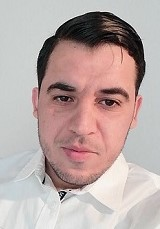
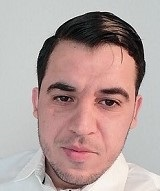
change

diff --git a/index.html b/index.html
@@ -17,11 +17,11 @@
                      
                         <div class="contact">
                            <h1>Contact</h1>
-                                <p>Adresse:<br>25 rue de la folie méricourt,Paris</p>
-                                <p>Email :<br><a href="mailto:Ahmed.mohamedcherifpro@gmail.com">Ahmed.mohamedcherifpro@gmail.com</a></p>
-                                <p>Téléphone:<br>07 68 07 12 89</p>
-                                <p>Site web :<br><a href="https://www.linkedin.com/in/ahmed-mohamed-cherif-a6119a1a2">linkedin</a></p>
-                                            <p><a href="https://github.com/Ahmed7511?tab=repositories">Github </a></p>
+                                <p><i class="fas fa-home fa-2x"></i> 25 rue de la folie méricourt,Paris</p>
+                                <p><i class="far fa-envelope fa-2x"></i> <a href="mailto:Ahmed.mohamedcherifpro@gmail.com">Ahmed.mohamedcherifpro@gmail.com</a></p>
+                                <p><i class="fas fa-phone fa-2x"></i> 07 68 07 12 89</p>
+                                <p><i class="fab fa-linkedin fa-2x" style="color: blue;"></i> <a href="https://www.linkedin.com/in/ahmed-mohamed-cherif-a6119a1a2">https://www.linkedin.com/in/ahmed-mohamed-cherif-a6119a1a2/</a></p>
+                                 <p><i class="fab fa-github fa-2x"></i> <a href="https://github.com/Ahmed7511">https://github.com/Ahmed7511 </a></p>
                         </div>
 
                         <div class="apropos">
@@ -52,88 +52,86 @@
             <section id="info">
                     <div>
                                  <h1><em>Ahmed</em>Mohamed cherif</h1>
-                                 <p><span>dévelo</span>ppeur web</p>  
+                                <h2>développeur web</h2>  
                     </div>
                     <div class="formation">       
-                        <h2><em><i class="fas fa-graduation-cap"></i></em>Compétences informatique</h2>
+                        <h3>Compétences informatique</h3>
+                        <i class="fab fa-html5 fa-3x fa-blue" style="color : orange"></i> <i class="fab fa-css3-alt fa-3x" style="color : blue"></i> <i class="fab fa-js fa-3x" style="color : yellow"></i> <i class="fab fa-node fa-3x" style="color: green;"></i> <i class="fab fa-bootstrap fa-3x" style="color :slateblue"></i>
+                        <i class="fab fa-git fa-3x"></i> <i class="fab fa-github fa-3x"></i> <i class="fab fa-vuejs fa-3x" style="color: green;"></i>
+                         <p><i class="far fa-dot-circle" style="color: rgb(0, 255, 21);"></i> Transformez une maquette en site web ( <span style="color: red;"> HTML5, CSS3</span> ) </p>
+                      
+                    <p><i class="far fa-dot-circle" style="color: rgb(0, 255, 21);"></i> Dynamisez une page web avec des animations CSS </p>
+                     
+                         <p><i class="far fa-dot-circle" style="color: rgb(0, 255, 21);"></i> Optimisez un site web existant (<span style="color: red;"> SEO</span> )</p>
+                    
+                         <p><i class="far fa-dot-circle" style="color: rgb(0, 255, 21);"></i>Construisez un site e-commerce</p>
+     
+                    <p></p><i class="far fa-dot-circle" style="color: rgb(0, 255, 21);"></i>  Construisez une API sécurisée pour une application</p>
+                    <p><i class="far fa-dot-circle" style="color: rgb(0, 255, 21);"></i>  Créez un réseau social d’entreprise (<span style="color: red;"> OWASP </span>) </p>
+                    <p><i class="far fa-dot-circle" style="color: rgb(0, 255, 21);"></i>  Mobile first , Responsive Design</p>
+                    <p><i class="far fa-dot-circle" style="color: rgb(0, 255, 21);"></i>  Gestion de base de donnés(<span style="color: red;"> MySQL , SQL, Sequelize, MongoDB, Mongoose</span>) </p>    
+                    <p><i class="far fa-dot-circle" style="color: rgb(0, 255, 21);"></i>  Outil de versioning (<span style="color: red;">git </span>)</p>
 
-                    <div class="element">
-                         <p><em><i class="far fa-dot-circle"></i></em> Languages : </p>
-                         <p class="text"> HTML5, CSS3 , javascript, SQL </p>
-                   </div>
-                   <div class="element">
-                    <p><em><i class="far fa-dot-circle"></i></em> Frameworks : </p>
-                    <p class="text"> BOOTSTRAP , JQUERY, VUEJS </p>
-                      </div>
-                    <div class="element">
-                         <p><em><i class="fas fa-dot-circle"></i></em>ORM :</p>
-                         <p class="text"> Sequelize 
-                         </p>
-                    </div>
-      
-                    <div class="element">
-                          <p><em><i class="fas fa-dot-circle"></i></em> Base de Donnés : </p>
-                          <p class="text">Mysql , MongoDB</p>
-                    </div>
-          </div>
+               </div>
                     <div class="formation">       
-                                  <h2><em><i class="fas fa-graduation-cap"></i></em>Formation</h2>
+                                  <h3>Formation</h3>
           
                               <div class="element">
-                                   <p><em><i class="far fa-dot-circle"></i></em> 2020:<br>France(Paris)</p>
-                                   <p class="text">formation du développeur web openclassroom(bac +2).
-                                                    HTML5, CSS3, javascript</p>
+                                   <h4><i class="fas fa-angle-double-right"></i> Développeur web :</h4>
+                                 <p style="color: orange;"><i class="fas fa-graduation-cap"></i> openclassroom | janvier 2020 - Octobre 2020 </p>
+                                  <p> Conception de sites et d'applications web(<span style="color :red">CSS, JS, Node.JS, Express,
+                                    API REST, OWASP, Plan de test, Sass, Bootstrap, Git, GitHub...</span>)</p>
+                                   <p> Gestion de bases de données(<span style="color : red"> MySQL, Sequelize, MongoDB, Mongoose</span>) </p>
+                                    <p> Optimisation du référencement naturel (<span style="color : red"> SEO </span>), sécurité et amélioration des
+                                        performances</p>
                              </div>
                 
                               <div class="element">
-                                   <p><em><i class="fas fa-dot-circle"></i></em>2008-2013:<br>  Algérie(ENSSEA)</p>
-                                   <p class="text">formation d'ingénieur d'état en statistique et économie appliqué
-                                    (trois ans tronc commun statistique et deux ans spécialité en finance et actuariat)
+                                   <h4><i class="fas fa-angle-double-right"></i> Ingénieur d'état en statistique et économie appliqué :</h4>
+                                   <p style="color: orange;"><i class="fas fa-graduation-cap"></i> ENSSEA (Algérie) | 2008 -2013</p>
+                                   <p>formation d'ingénieur d'état en statistique et économie appliqué
+                                    (<span style="color: red;"> trois ans tronc commun statistique et deux ans de spécialité en finance et actuariat</span> )
                                    </p>
                               </div>
                 
                               <div class="element">
-                                    <p><em><i class="fas fa-dot-circle"></i></em>2008:<br> Algérie</p>
-                                    <p class="text">l'obtention du bac en gestion économique avec mention bien</p>
+                                    <h4><i class="fas fa-angle-double-right"></i> Bac en gestion économique</h4>
+                                    <p style="color: orange;"><i class="fas fa-graduation-cap"></i> 2008(Algérie)</p>
+                                    <p>l'obtention du bac en gestion économique avec mention bien</p>
                               </div>
                     </div>
                     <div class="expérience">
                 
-                                      <h2><em><i class="fas fa-briefcase "></i></em>expérience professionnelle</h2>
-                
-                    
-                
+                                      <h3>expérience professionnelle</h3>
                                <div class="element">
-                                      <p><em><i class="far fa-dot-circle"></i></em> 2018-2019:<br>France(Paris)</p>
-                                      <p class="text">livreur indépendant avec les societés uber-eat et stuart
-                                   </p>
+                                   <h4><i class="fas fa-angle-double-right"></i> Livreur indépendant avec les societés uber-eat et stuart :</h4>
+                                      <p style="color: orange;"> 2018-2019|France(Paris)</p>
                               </div>
                 
                                <div class="element">
-                                    <p><em><i class="fas fa-dot-circle"></i></em>2013-2015 <br>
-                                                           Algérie</p>
-                                    <p class="text">gérant d'entreprise des traveaux batiment
-                                        (suivi des traveaux ,gérer l'achat des marchandises)</p>
+                                   <h4><i class="fas fa-angle-double-right"></i> Gérant d'entreprise des traveaux batiment
+                                        (suivi des traveaux ,gérer l'achat des marchandises)</h4>
+                                        <p style="color: orange;"> 2013-2015 | Algérie</p>
+                                    <p class="text"></p>
                                      
                                </div>
                 
                                 <div class="element">
-                                      <p><em><i class="fas fa-dot-circle"></i></em>2011-2013<br> 
-                                        Algérie</p>
-                                      <p class="text">network marketer et representant indépendant de la societé QNET</p>
+                                   <h4><i class="fas fa-angle-double-right"> Network marketer et representant indépendant de la societé QNET</i></h4>
+                                        <p style="color: orange;">2011-2013| Algérie</p>
                                 </div>
                          
                         </div>
                          
                        
                             
-                          <h2><em><i class="fas fa-pencil-alt"></i></em>Langues</h2>
+                          <h3>Langues</h3>
                           <div class="recommandations">  
                                    
                                        <ul> 
-                                          <li><em><i class="fas fa-dot-circle"></i></em>Arab : langue maternelle </li>
-                                          <li><em><i class="fas fa-dot-circle"></i></em>Français <i class="fas fa-star"></i><i class="fas fa-star"></i><i class="fas fa-star"></i><i class="fas fa-star-half-alt"></i><i class="far fa-star"></i></li>
-                                          <li><em><i class="fas fa-dot-circle"></i></em>Anglais : <i class="fas fa-star"></i><i class="fas fa-star"></i><i class="fas fa-star-half-alt"></i><i class="far fa-star"></i><i class="far fa-star"></i></li>
+                                          <li><span>Arabe :</span> langue maternelle </li>
+                                          <li><span>Français :</span> <i class="fas fa-star" style="color: wheat;"></i><i class="fas fa-star" style="color: wheat;"></i><i class="fas fa-star" style="color: wheat;"></i><i class="fas fa-star-half-alt" style="color: wheat;"></i><i class="far fa-star" style="color: wheat;"></i></li>
+                                          <li><span>Anglais :</span> <i class="fas fa-star" style="color: wheat;"></i><i class="fas fa-star" style="color: wheat;"></i><i class="fas fa-star-half-alt" style="color: wheat;"></i><i class="far fa-star" style="color: wheat;"></i><i class="far fa-star" style="color: wheat;"></i></li>
                                        </ul>
                                        
                                

diff --git a/style.css b/style.css
@@ -22,8 +22,8 @@
 { 
     display: flex;
     flex-direction: column;
-    width: 25%;
-    background-color: rgb(171, 217, 231);
+    width: 35%;
+    background-color: rgb(175, 90, 164);
     height: auto;
 }   
 #perso p
@@ -33,7 +33,7 @@
 }
 #perso h1
 {
-    color:   rgb(171, 217, 231);
+    color:    rgb(175, 90, 164);
     background-color: black;
     text-align: center;
     margin-bottom: 30px;
@@ -46,7 +46,7 @@
 }
 .ma_photo>img
 { 
-    transform: scale(0.6);
+    transform: scale(1);
     border-radius: 50%;
     box-shadow: 5px 5px 5px rgba(0, 0, 0, 0.3);     
     width: auto;
@@ -92,17 +92,16 @@ a:hover
 
 #info h2
 {
-    border-bottom:2px solid  rgb(171, 217, 231);
     text-transform: uppercase;
 }
-span
-{
-    border-bottom:1px solid   rgb(171, 217, 231);
+h3{
+    color: mediumblue;
+    text-transform: uppercase;
 }
 em
 {
     margin-right: 15px;
-    color:  rgb(171, 217, 231);
+    color:   rgb(175, 90, 164);
 }
 .element
 {
@@ -121,7 +120,9 @@ ul
 {
     list-style-type: none;
 }
-
+span{
+    font-weight: bold ;
+}
 @media screen and (max-width:760px)
 {
    
